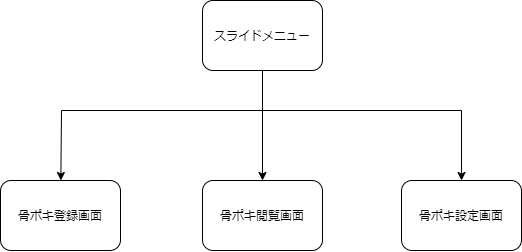
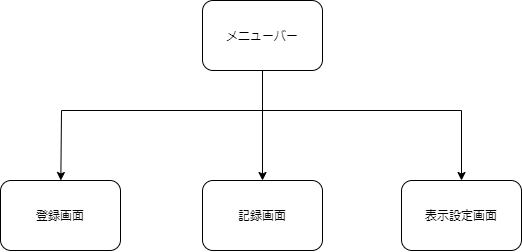
update 画面名の変更
- 「骨ポキ」という単語を外した
- 閲覧を記録に変更
- サイドメニューから下部のメニューに

diff --git a/01_ubiquitous_language/ubiquitous_language.md b/01_ubiquitous_language/ubiquitous_language.md
@@ -6,4 +6,4 @@
 | 骨ポキ対象     | CrackingObject          | 骨ポキをする対象。首とか指とか。                     |
 | 骨ポキ登録     | RegisterCracking        | 骨ポキをアプリに登録すること。                       |
 | 骨ポキ表示設定 | CrackingDisplaySettings | ユーザーごとに骨ポキ対象の表示・表示を設定すること。 |
-| 骨ポキ閲覧     | DisplayCracking         | 骨ポキ情報表示すること。                             |
+| 骨ポキ記録     | CrackingRecord          | 骨ポキを記録した結果のこと。                         |
